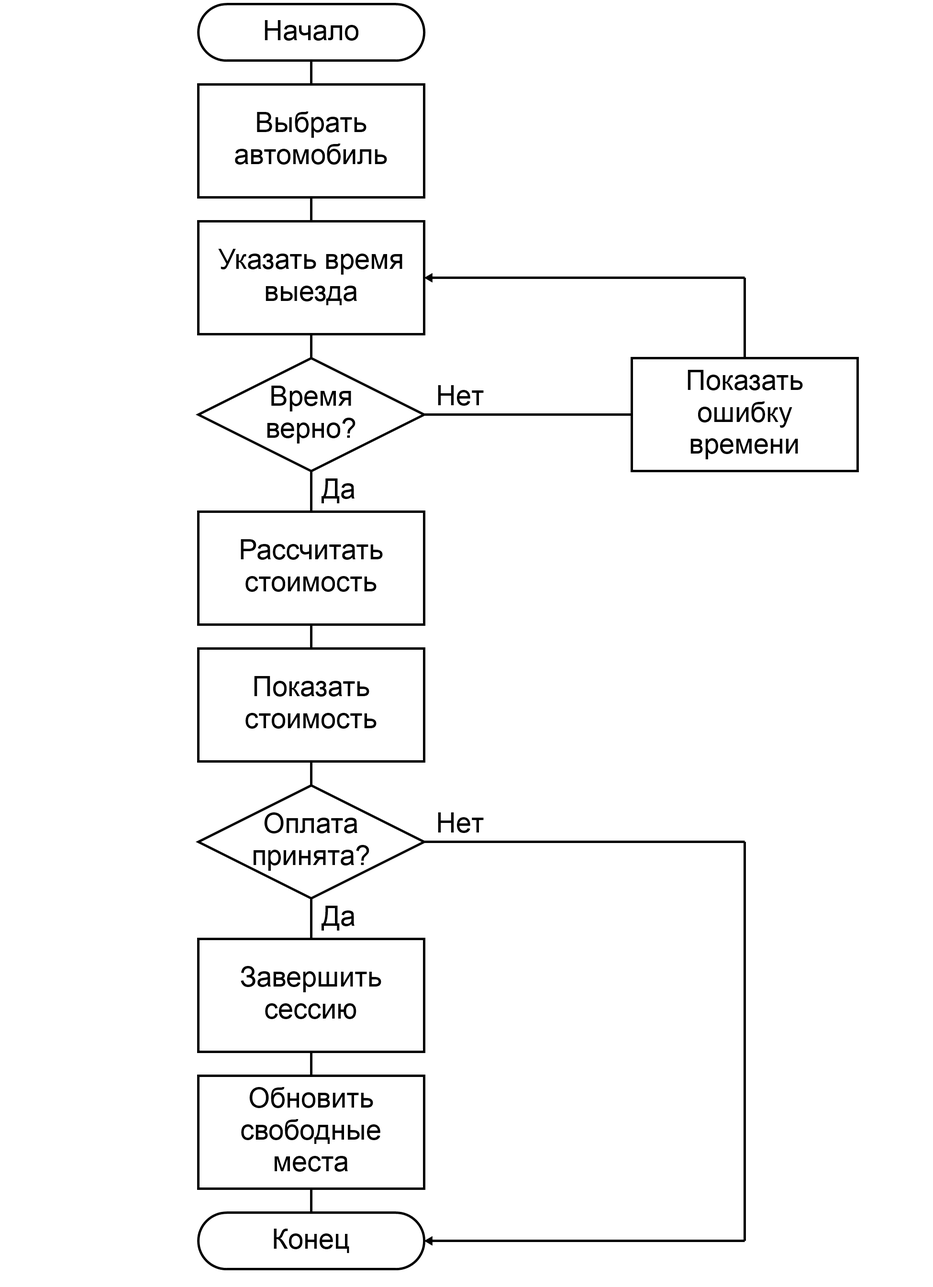
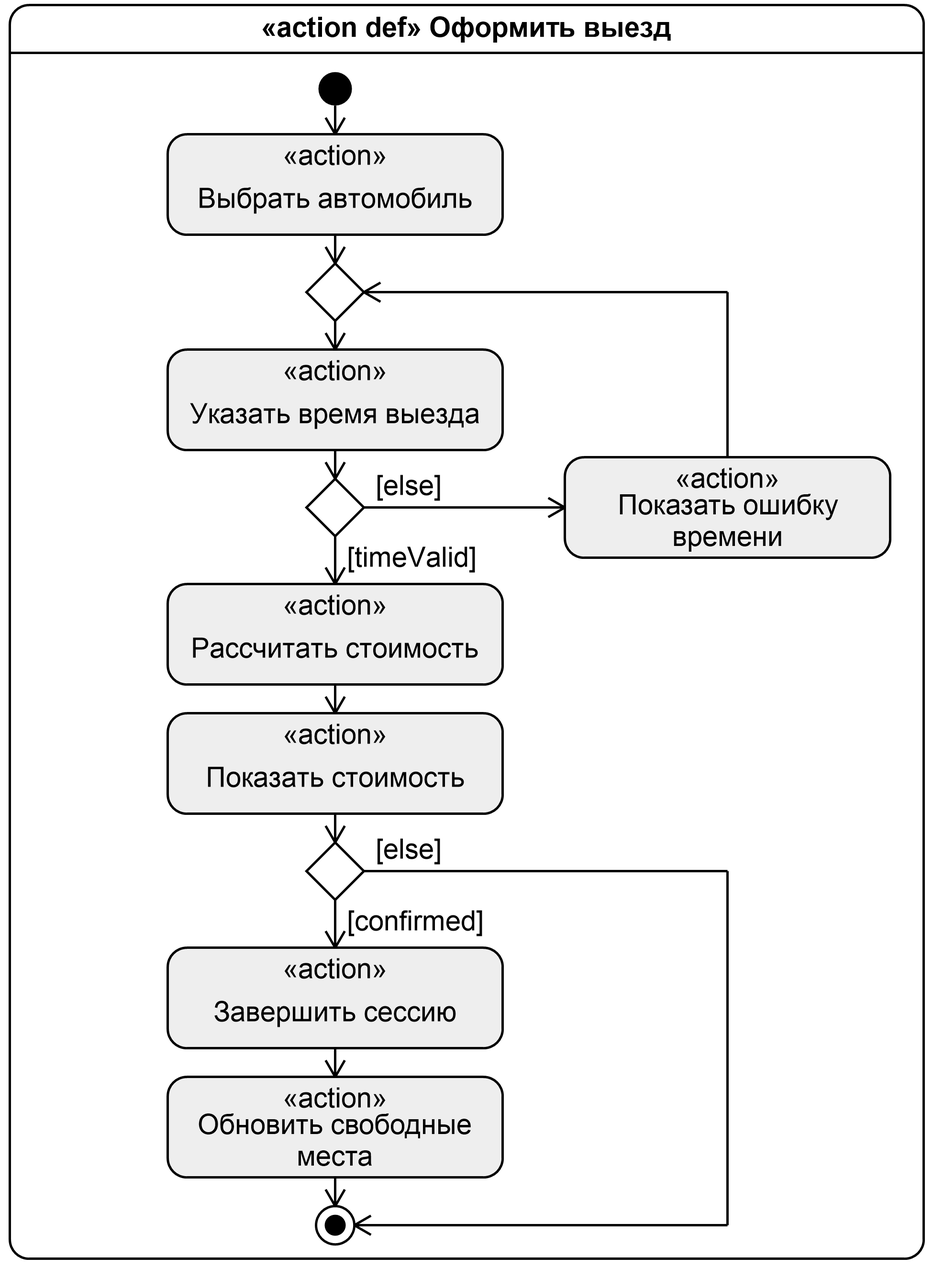
ЛР3: объём требований приведён к формулировке Заказчика, рисунок 2 в нотации SysML v2

diff --git a/srs/srs.md b/srs/srs.md
@@ -2,13 +2,13 @@
 
 Для «ПаркУчёт» – системы учёта автомобилей на платной автостоянке
 
-Версия 0.1
+Версия 0.2
 
 Подготовил(а) Кузьминчук М. Ю., гр. 434701
 
 БГУИР, факультет компьютерных систем и сетей, кафедра электронных вычислительных машин
 
-2026-11-01
+2026-11-13
 
 ## Оглавление
 
@@ -68,6 +68,7 @@
 | Автор | Дата | Причина изменения | Версия |
 |------|------|--------------------|---------|
 | Кузьминчук М. Ю. | 2026-11-01 | Первая редакция по бизнес-требованиям Заказчика | 0.1 |
+| Кузьминчук М. Ю. | 2026-11-13 | Объём требований приведён к бизнес-требованиям Заказчика: удалены REQ-INT-002, REQ-INT-006, REQ-FUNC-012, REQ-FUNC-015, REQ-FUNC-016, REQ-PERF-002, REQ-PERF-003, REQ-SEC-001, REQ-REL-002, REQ-AVAIL-001, REQ-OBS-001 | 0.2 |
 
 ---
 
@@ -87,12 +88,11 @@
 
 - БЦ-1 – исключить ошибки ручного расчёта стоимости стоянки;
 - БЦ-2 – всегда знать количество свободных мест, чтобы не принимать автомобили сверх вместимости;
-- БЦ-3 – сократить время оформления одного автомобиля;
-- БЦ-4 – хранить проверяемую историю стоянок и сумм за любой период.
+- БЦ-3 – хранить историю стоянок и полученных сумм.
 
-В область продукта входят: учёт автомобилей на одной стоянке, настройка тарифа и вместимости, поиск и выгрузка истории.
+В область продукта входят: учёт автомобилей на одной стоянке, расчёт стоимости по тарифу, показ свободных мест, ведение и просмотр истории, настройка тарифа и вместимости.
 
-В область продукта не входят: приём платежей и печать кассовых чеков, управление шлагбаумом, распознавание номеров камерой, бронирование мест, абонементы, учёт нескольких стоянок, закрепление за автомобилем конкретного номера места.
+В область продукта не входят: приём платежей и печать кассовых чеков, управление шлагбаумом, распознавание номеров камерой, бронирование мест, абонементы, учёт нескольких стоянок, закрепление за автомобилем конкретного номера места, исправление и аннулирование записей, поиск по истории и выгрузка её в файл, разграничение прав пользователей. Эти функции Заказчик не называл, они могут быть добавлены после согласования (раздел 5.2).
 
 ### 1.3 Определения, акронимы и сокращения {#13-definitions-acronyms-and-abbreviations}
 
@@ -100,14 +100,13 @@
 
 | Термин | Определение |
 |------|------------|
-| Вместимость | Общее количество мест на стоянке, задаётся администратором |
+| Вместимость | Общее количество мест на стоянке, задаётся оператором в настройках |
 | Госномер | Государственный регистрационный знак автомобиля, например 1234 AB-7 |
 | Льготный период | Время от въезда, в пределах которого стоянка не оплачивается |
 | Свободные места | Разность вместимости и количества автомобилей на стоянке |
 | Сессия стоянки | Запись об одном пребывании автомобиля от въезда до выезда |
 | Тариф | Ставка за час и длительность льготного периода |
 | BYN | Белорусский рубль |
-| CSV | Текстовый формат таблиц со значениями, разделёнными точкой с запятой |
 | SRS | Спецификация требований к программному обеспечению |
 | SysML | Язык системного моделирования |
 
@@ -125,7 +124,7 @@
 
 ### 1.5 Обзор документа {#15-document-overview}
 
-Раздел 2 описывает контекст продукта, раздел 3 – проверяемые требования, раздел 4 – способы их проверки, раздел 5 – словарь данных и открытые вопросы. Слово «должна» обозначает обязательное требование, «следует» – желательное. Любое изменение увеличивает версию документа и отражается в истории изменений.
+Раздел 2 описывает контекст продукта, раздел 3 – проверяемые требования, раздел 4 – способы их проверки, раздел 5 – словарь данных, открытые вопросы и пример работы. Слово «должна» обозначает обязательное требование. Любое изменение увеличивает версию документа и отражается в истории изменений.
 
 ---
 
@@ -145,13 +144,12 @@
 - оформление выезда и расчёт стоимости стоянки по тарифу;
 - показ вместимости, занятых и свободных мест;
 - показ автомобилей, находящихся на стоянке;
-- ведение истории стоянок, поиск и итоговая сумма за период;
-- настройка тарифа и вместимости;
-- аннулирование ошибочной записи о въезде.
+- ведение и просмотр истории стоянок;
+- настройка тарифа и вместимости.
 
-Последовательность оформления выезда показана на рисунке 2, состояния сессии стоянки – на рисунке 3.
+Действие оформления выезда показано на рисунке 2, состояния сессии стоянки – на рисунке 3.
 
-![Рисунок 2 – Схема алгоритма оформления выезда](images/exit-flow.png)
+![Рисунок 2 – Действие «Оформить выезд»](images/exit-flow.png)
 
 ![Рисунок 3 – Состояния сессии стоянки](images/session-states.png)
 
@@ -170,8 +168,7 @@
 
 | Класс пользователя | Задача | Подготовка | Частота работы |
 |------|------|------|------|
-| Оператор | Оформляет въезд и выезд, смотрит историю | Начальные навыки работы с компьютером | Постоянно в течение смены |
-| Администратор | Задаёт тариф и вместимость | Уверенный пользователь | Несколько раз в год |
+| Оператор | Оформляет въезд и выезд, смотрит историю, задаёт тариф и вместимость | Начальные навыки работы с компьютером | Постоянно в течение смены |
 
 ### 2.5 Допущения и зависимости {#25-assumptions-and-dependencies}
 
@@ -193,8 +190,8 @@
 
 | Версия | Требование |
 |------|------|
-| 1.0 | REQ-FUNC-001 – REQ-FUNC-015 и все требования разделов 3.1, 3.3 – 3.5 |
-| 1.1 | REQ-FUNC-016 |
+| 1.0 | Все требования раздела 3 |
+| После согласования | Функции из раздела 5.2, если Заказчик их подтвердит |
 
 ---
 
@@ -223,13 +220,6 @@
 - **Acceptance Criteria:** Все элементы макетов присутствуют в приложении.
 - **Verification Method:** Inspection
 
-- **ID:** REQ-INT-002
-- **Title:** Работа с клавиатуры
-- **Statement:** Система должна позволять выполнять оформление въезда и выезда без мыши.
-- **Rationale:** Оператор вводит данные с клавиатуры, глядя на автомобиль.
-- **Acceptance Criteria:** Клавиша Tab переводит фокус между полями, Enter выполняет основное действие окна, Esc закрывает окно без сохранения.
-- **Verification Method:** Demonstration
-
 - **ID:** REQ-INT-003
 - **Title:** Сообщения об ошибках
 - **Statement:** При неверном вводе система должна показывать сообщение на русском языке с названием поля и причиной отказа, сохраняя уже введённые данные.
@@ -253,13 +243,6 @@
 - **Statement:** Система не должна обращаться к внешним сетевым сервисам.
 - **Rationale:** Данные хранятся только на компьютере стоянки (ОГР-3).
 - **Acceptance Criteria:** Все функции работают при отключённой сети, сетевых соединений приложение не создаёт.
-- **Verification Method:** Test
-
-- **ID:** REQ-INT-006
-- **Title:** Формат выгрузки
-- **Statement:** Файл выгрузки истории должен быть в формате CSV в кодировке UTF-8 с разделителем «точка с запятой» и строкой заголовков.
-- **Rationale:** Файл открывается в табличном редакторе без настройки.
-- **Acceptance Criteria:** Выгруженный файл открывается в Microsoft Excel, кириллица отображается верно.
 - **Verification Method:** Test
 
 ### 3.2 Функциональные требования {#32-functional}
@@ -341,53 +324,31 @@
 
 - **ID:** REQ-FUNC-010
 - **Title:** Список автомобилей на стоянке
-- **Statement:** Система должна показывать автомобили на стоянке с госномером, маркой, временем въезда и текущей длительностью и искать их по части госномера.
+- **Statement:** Система должна показывать автомобили на стоянке с госномером, маркой, временем въезда и текущей длительностью.
 - **Rationale:** Оператор должен быстро найти автомобиль при выезде.
-- **Acceptance Criteria:** Список упорядочен по времени въезда, поиск оставляет только совпадающие строки.
+- **Acceptance Criteria:** Список упорядочен по времени въезда и обновляется сразу после каждой операции.
 - **Verification Method:** Test
 
 - **ID:** REQ-FUNC-011
 - **Title:** Ведение истории
-- **Statement:** Система должна хранить завершённые и аннулированные сессии с госномером, маркой, временем въезда и выезда, длительностью, тарифом, стоимостью и статусом.
-- **Rationale:** Прямое требование Заказчика (БЦ-4).
-- **Acceptance Criteria:** Каждая завершённая сессия присутствует в истории и после перезапуска, средств изменения записей истории в интерфейсе нет.
-- **Verification Method:** Test
-
-- **ID:** REQ-FUNC-012
-- **Title:** Поиск по истории
-- **Statement:** Система должна отбирать записи истории по периоду и части госномера и показывать количество записей и итоговую сумму.
-- **Rationale:** Владельцу нужно сверять выручку за смену и разбирать спорные случаи.
-- **Acceptance Criteria:** Итог равен сумме стоимости показанных завершённых сессий, аннулированные сессии в сумму не входят.
+- **Statement:** Система должна хранить завершённые сессии с госномером, маркой, временем въезда и выезда, длительностью, тарифом и стоимостью и показывать их в окне истории.
+- **Rationale:** Прямое требование Заказчика (БЦ-3).
+- **Acceptance Criteria:** Каждая завершённая сессия присутствует в окне истории и после перезапуска приложения, средств изменения записей истории в интерфейсе нет.
 - **Verification Method:** Test
 
 - **ID:** REQ-FUNC-013
 - **Title:** Настройка тарифа
-- **Statement:** Система должна позволять администратору задавать ставку от 0,01 до 1000,00 BYN за час и льготный период от 0 до 60 мин.
+- **Statement:** Система должна позволять оператору задавать ставку от 0,01 до 1000,00 BYN за час и льготный период от 0 до 60 мин.
 - **Rationale:** Владелец стоянки меняет цены без участия разработчика.
 - **Acceptance Criteria:** Значения вне диапазона отклоняются. Новый тариф применяется только к автомобилям, въехавшим после изменения.
 - **Verification Method:** Test
 
 - **ID:** REQ-FUNC-014
 - **Title:** Настройка вместимости
-- **Statement:** Система должна позволять администратору задавать вместимость от 1 до 10000 мест, но не меньше количества автомобилей на стоянке.
+- **Statement:** Система должна позволять оператору задавать вместимость от 1 до 10000 мест, но не меньше количества автомобилей на стоянке.
 - **Rationale:** Стоянку могут расширить или временно сократить.
 - **Acceptance Criteria:** Значение меньше количества автомобилей на стоянке отклоняется, количество свободных мест пересчитывается сразу.
 - **Verification Method:** Test
-
-- **ID:** REQ-FUNC-015
-- **Title:** Аннулирование ошибочной записи
-- **Statement:** Система должна позволять оператору аннулировать сессию автомобиля на стоянке с обязательным указанием причины.
-- **Rationale:** Опечатку в госномере иначе нельзя исправить без искажения истории.
-- **Acceptance Criteria:** Без причины операция отклоняется. После аннулирования место освобождается, запись попадает в историю со статусом «Аннулирована» и нулевой стоимостью.
-- **Verification Method:** Test
-
-- **ID:** REQ-FUNC-016
-- **Title:** Выгрузка истории
-- **Statement:** Системе следует выгружать отобранные записи истории в файл CSV.
-- **Rationale:** Бухгалтерия обрабатывает данные в табличном редакторе.
-- **Acceptance Criteria:** Количество строк файла равно количеству показанных записей плюс строка заголовков.
-- **Verification Method:** Test
-- **More Information:** Планируется в версии 1.1.
 
 ### 3.3 Качество обслуживания {#33-quality-of-service}
 
@@ -395,33 +356,12 @@
 
 - **ID:** REQ-PERF-001
 - **Title:** Время отклика
-- **Statement:** Операции въезда, расчёта и выезда должны выполняться не более чем за 1 с при 100000 записей в истории.
-- **Rationale:** Очередь на въезд не должна ожидать программу (БЦ-3).
-- **Acceptance Criteria:** Среднее по 100 замерам на компьютере с 4 ГБ оперативной памяти не превышает 1 с.
+- **Statement:** Операции въезда, расчёта и выезда должны выполняться не более чем за 1 с при 10000 записей в истории.
+- **Rationale:** Оператор не должен ожидать программу при оформлении автомобиля.
+- **Acceptance Criteria:** Среднее по десяти замерам на компьютере с 4 ГБ оперативной памяти не превышает 1 с.
 - **Verification Method:** Test
-
-- **ID:** REQ-PERF-002
-- **Title:** Время запуска
-- **Statement:** Запуск приложения до готовности главного окна должен занимать не более 3 с.
-- **Rationale:** Смена не должна начинаться с ожидания.
-- **Acceptance Criteria:** Время запуска при 100000 записей в истории не превышает 3 с.
-- **Verification Method:** Test
-
-- **ID:** REQ-PERF-003
-- **Title:** Трудоёмкость оформления
-- **Statement:** Подготовленный оператор должен оформлять въезд не более чем за 30 с.
-- **Rationale:** Показатель проверяет достижение цели БЦ-3.
-- **Acceptance Criteria:** Среднее по десяти оформлениям не превышает 30 с.
-- **Verification Method:** Demonstration
 
 #### 3.3.2 Безопасность {#332-security}
-
-- **ID:** REQ-SEC-001
-- **Title:** Защита настроек
-- **Statement:** Изменение тарифа и вместимости должно быть доступно только после ввода пароля администратора, пароль не должен храниться в открытом виде.
-- **Rationale:** Оператор не должен менять цены.
-- **Acceptance Criteria:** С неверным паролем окно настроек не открывается, в файлах приложения пароля в открытом виде нет.
-- **Verification Method:** Test
 
 - **ID:** REQ-SEC-002
 - **Title:** Минимизация данных
@@ -439,30 +379,13 @@
 - **Acceptance Criteria:** После принудительного завершения процесса сразу после подтверждения запись присутствует при следующем запуске, данные не повреждены.
 - **Verification Method:** Test
 
-- **ID:** REQ-REL-002
-- **Title:** Резервная копия
-- **Statement:** Система должна при запуске создавать копию данных, если последняя копия старше суток, и хранить не менее семи последних копий.
-- **Rationale:** Отказ диска или повреждение файла не должны уничтожать историю.
-- **Acceptance Criteria:** После запуска в каталоге копий появляется новая копия, старые копии сверх семи удаляются.
-- **Verification Method:** Test
-
 #### 3.3.4 Доступность {#334-availability}
 
-- **ID:** REQ-AVAIL-001
-- **Title:** Восстановление работы
-- **Statement:** После сбоя компьютера оператор должен иметь возможность продолжить работу повторным запуском приложения, без дополнительных действий по восстановлению.
-- **Rationale:** На стоянке нет технического специалиста.
-- **Acceptance Criteria:** После перезапуска список автомобилей на стоянке совпадает с состоянием до сбоя.
-- **Verification Method:** Test
+Отдельных требований нет: после сбоя работа продолжается повторным запуском приложения, а сохранность данных обеспечивает требование REQ-REL-001.
 
 #### 3.3.5 Наблюдаемость {#335-observability}
 
-- **ID:** REQ-OBS-001
-- **Title:** Журнал работы
-- **Statement:** Система должна записывать в журнал время и вид каждой операции и ошибки, хранить его не менее 90 суток и не записывать в него пароль.
-- **Rationale:** Журнал нужен для разбора спорных случаев и ошибок.
-- **Acceptance Criteria:** Каждая операция въезда, выезда, аннулирования и изменения настроек отражается в журнале.
-- **Verification Method:** Inspection
+Отдельных требований нет: окно истории (REQ-FUNC-011) показывает все завершённые операции оформления выезда.
 
 ### 3.4 Соответствие стандартам {#34-compliance}
 
@@ -604,18 +527,16 @@
 
 ## 4. Верификация {#4-verification}
 
-Требования проверяются в Windows 10 и Windows 11 на тестовой базе со 100000 записей. Тестовые артефакты будут созданы на этапе тестирования в каталоге tests репозитория, поэтому все требования имеют статус «Запланировано».
+Требования проверяются в Windows 10 и Windows 11 на тестовой базе с 10000 записей. Тестовые артефакты будут созданы на этапе тестирования в каталоге tests репозитория, поэтому все требования имеют статус «Запланировано».
 
 Таблица 8 – Матрица верификации требований
 
 | Идентификатор требования | Метод | Тест или артефакт | Статус |
 |----------------|---------------------|--------------------|--------|
 | REQ-INT-001 | Инспекция | srs/images/ | Запланировано |
-| REQ-INT-002 | Демонстрация | UC-KEYBOARD.md | Запланировано |
 | REQ-INT-003 | Тест | TC-ERRORS.md | Запланировано |
 | REQ-INT-004 | Инспекция | UC-SCREEN.md | Запланировано |
 | REQ-INT-005 | Тест | TC-OFFLINE.md | Запланировано |
-| REQ-INT-006 | Тест | TC-EXPORT.md | Запланировано |
 | REQ-FUNC-001 | Тест | TC-ENTRY.md | Запланировано |
 | REQ-FUNC-002 | Демонстрация | TC-ENTRY.md | Запланировано |
 | REQ-FUNC-003 | Тест | TC-ENTRY.md | Запланировано |
@@ -627,20 +548,11 @@
 | REQ-FUNC-009 | Тест | TC-SPACES.md | Запланировано |
 | REQ-FUNC-010 | Тест | TC-LIST.md | Запланировано |
 | REQ-FUNC-011 | Тест | TC-HISTORY.md | Запланировано |
-| REQ-FUNC-012 | Тест | TC-HISTORY.md | Запланировано |
 | REQ-FUNC-013 | Тест | TC-SETTINGS.md | Запланировано |
 | REQ-FUNC-014 | Тест | TC-SETTINGS.md | Запланировано |
-| REQ-FUNC-015 | Тест | TC-CANCEL.md | Запланировано |
-| REQ-FUNC-016 | Тест | TC-EXPORT.md | Запланировано |
 | REQ-PERF-001 | Тест | TC-PERF.md | Запланировано |
-| REQ-PERF-002 | Тест | TC-PERF.md | Запланировано |
-| REQ-PERF-003 | Демонстрация | UC-OPERATOR.md | Запланировано |
-| REQ-SEC-001 | Тест | TC-SETTINGS.md | Запланировано |
 | REQ-SEC-002 | Инспекция | sdd/ | Запланировано |
 | REQ-REL-001 | Тест | TC-CRASH.md | Запланировано |
-| REQ-REL-002 | Тест | TC-BACKUP.md | Запланировано |
-| REQ-AVAIL-001 | Тест | TC-CRASH.md | Запланировано |
-| REQ-OBS-001 | Инспекция | TC-LOG.md | Запланировано |
 | REQ-COMP-001 | Инспекция | sdd/ | Запланировано |
 | REQ-COMP-002 | Инспекция | srs/srs.md | Запланировано |
 | REQ-INST-001 | Демонстрация | README.md | Запланировано |
@@ -671,8 +583,7 @@
 | Ставка за час, BYN | Десятичное число | Два знака после запятой |
 | Льготный период, мин | Целое число | От 0 до 60 |
 | Стоимость, BYN | Десятичное число | Два знака после запятой |
-| Статус | Перечисление | На стоянке, завершена, аннулирована |
-| Причина аннулирования | Строка | Обязательна при статусе «Аннулирована» |
+| Статус | Перечисление | На стоянке, завершена |
 
 Значения при первом запуске: вместимость 50 мест, ставка 2,00 BYN за час, льготный период 10 мин.
 
@@ -687,7 +598,9 @@
 | Какой тариф применять, если он изменился во время стоянки | Тариф на момент въезда |
 | Нужны ли номера мест | Учитывается только количество |
 | Сколько лет хранить историю | Без ограничения срока, удаление не предусмотрено |
-| Нужно ли несколько учётных записей операторов | Одна учётная запись на смену |
+| Нужны ли учётные записи и пароли | Не предусмотрены, приложением пользуется оператор смены |
+| Нужно ли исправлять или аннулировать ошибочные записи | Не предусмотрено в версии 1.0 |
+| Нужны ли поиск по истории и выгрузка её в файл | Не предусмотрены в версии 1.0 |
 
 ### 5.3 Пример работы за смену
 
@@ -701,8 +614,9 @@
 | 11:00 | Выезд 5678 KI-5, длительность 80 мин, два начатых часа | К оплате 4,00 BYN, свободно 49 мест |
 | 12:05 | Въезд 0042 MH-7 | Свободно 48 мест |
 | 12:12 | Выезд 0042 MH-7, длительность 7 мин | К оплате 0,00 BYN, свободно 49 мест |
-| 17:20 | Въезд 7310 EX-3, в госномере допущена опечатка | Запись аннулирована с указанием причины, свободно 49 мест |
+| 13:30 | Въезд 3321 PP-1 | Свободно 48 мест |
+| 15:05 | Выезд 3321 PP-1, длительность 95 мин, два начатых часа | К оплате 4,00 BYN, свободно 49 мест |
 | 19:45 | Выезд 1234 AB-7, длительность 11 ч 30 мин, 12 начатых часов | К оплате 24,00 BYN, свободно 50 мест |
-| 20:00 | Поиск в истории за смену | Четыре записи, итого 28,00 BYN |
+| 20:00 | Просмотр истории | Четыре завершённые стоянки на сумму 32,00 BYN |
 
 Значения в таблице совпадают с макетами окон (рисунки 4 – 7).
